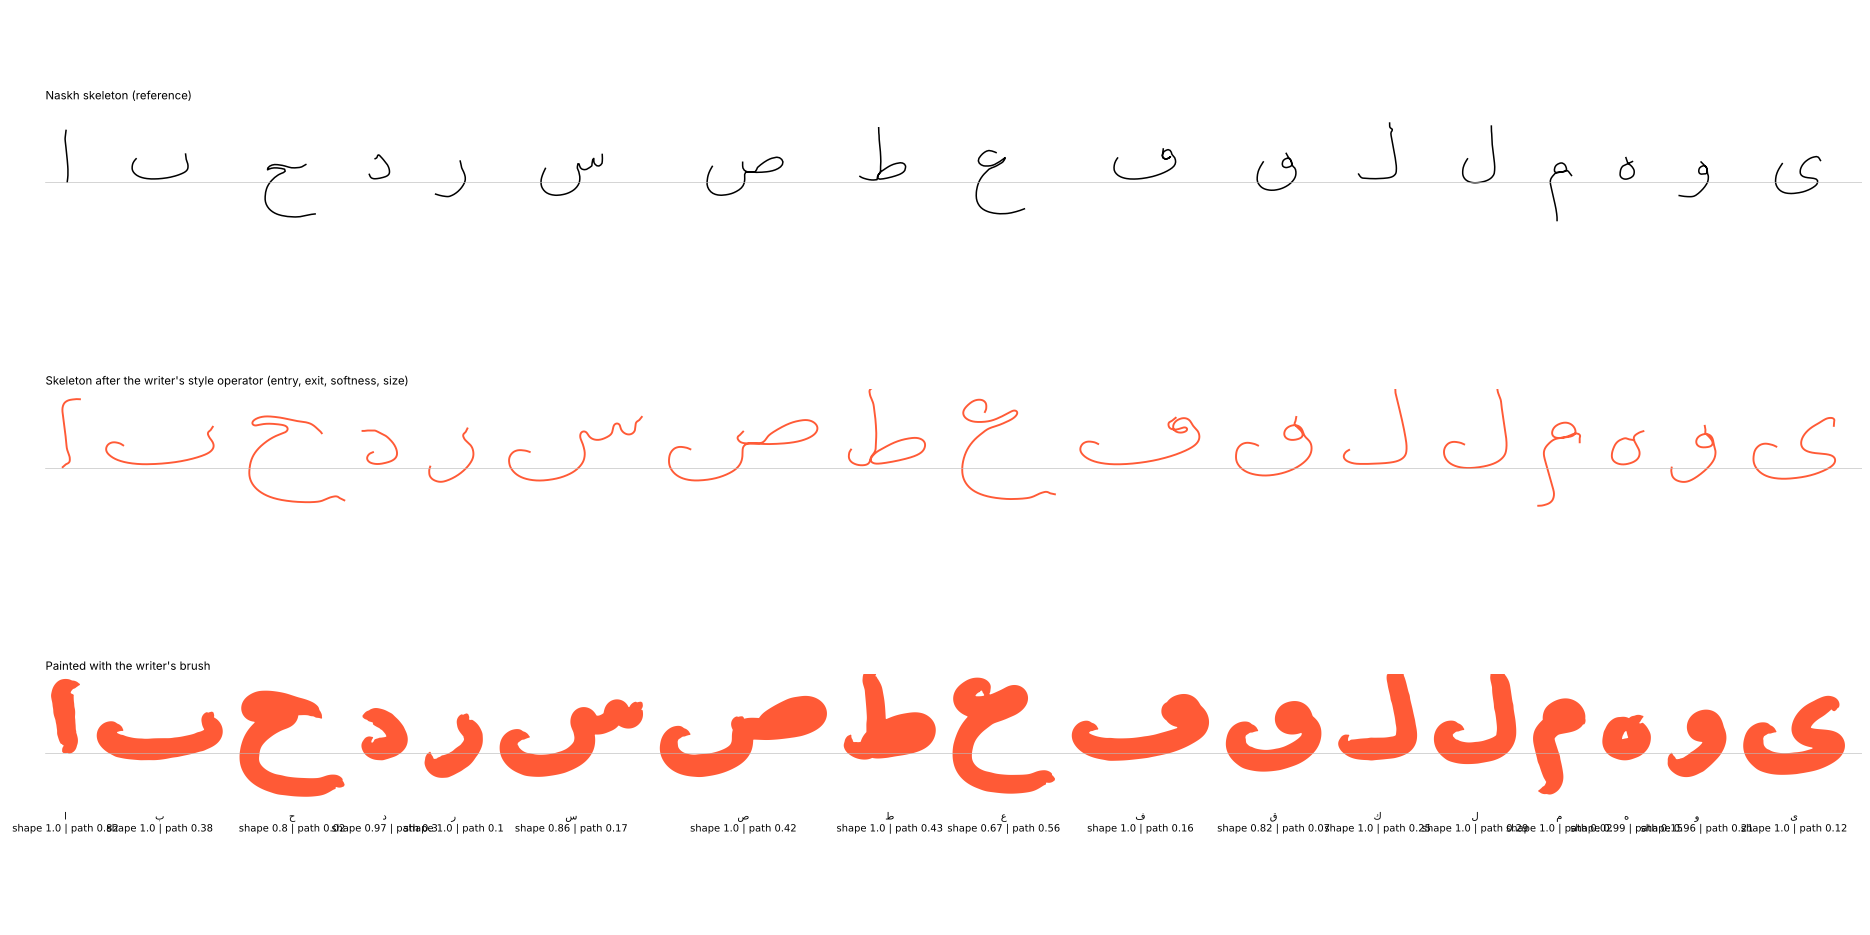
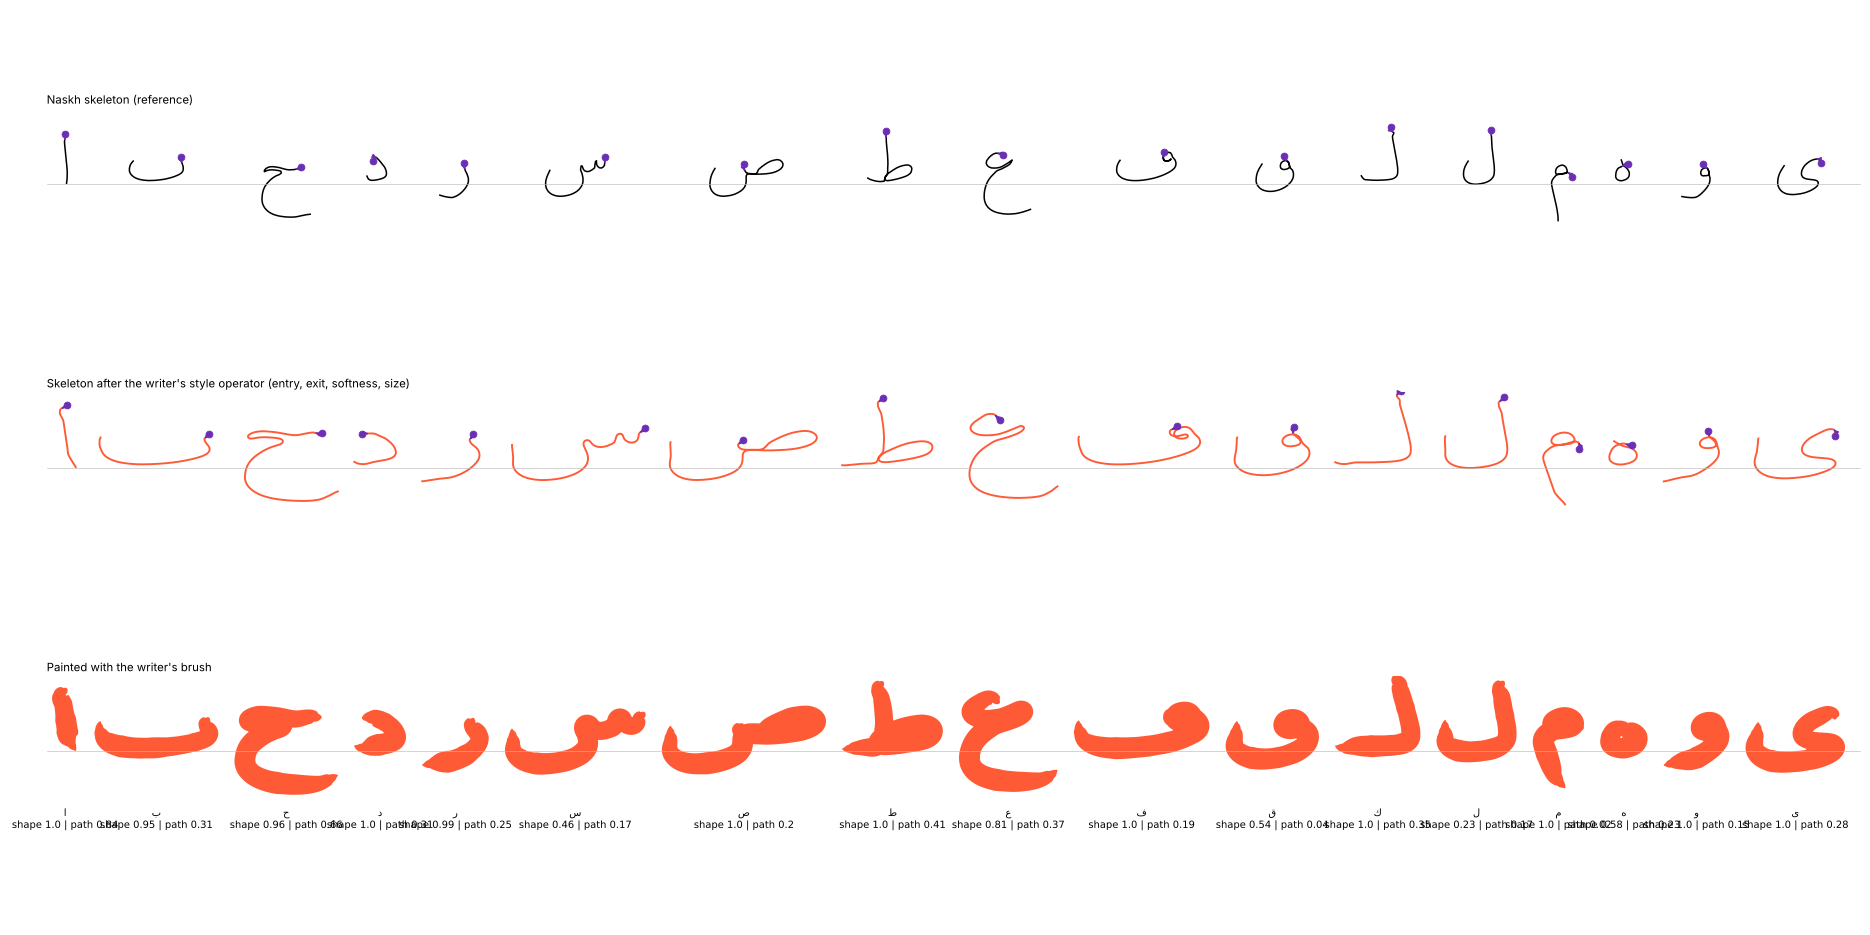
Pen paths follow writing direction (start at the higher end, else the right one)
Fixes hah, ain and yeh, which were drawn backwards from their tails; start
points and direction arrows are drawn on the sheet. Loop direction and
multi-stroke letters still need a per-letter ductus table.

Claude-Session: https://claude.ai/code/session_01BHg6HbP1QAJKUkGaMnibW5

diff --git a/font-engine/poc_skeleton_brush/curve_style.py b/font-engine/poc_skeleton_brush/curve_style.py
@@ -50,6 +50,18 @@ def integrate(p0, th, step=1.0):
     return p0 + np.vstack([[0, 0], np.cumsum(np.stack([np.cos(th), np.sin(th)], 1) * step, axis=0)])
 
 
+def ductus_orient(P):
+    """Writing direction (Sakkal's chart): the pen starts at the HIGHER end of
+    the stroke; when both ends are about level, at the right one. (Image
+    coordinates: smaller y = higher.) Fixes hah / ain / yeh, whose tails end
+    on the right and were being drawn backwards."""
+    a, b = P[0], P[-1]
+    h = max(np.ptp(P[:, 1]), 1e-6)
+    if abs(a[1] - b[1]) > 0.25 * h:
+        return P if a[1] < b[1] else P[::-1]
+    return P if a[0] >= b[0] else P[::-1]
+
+
 def wrap(a):
     return (a + np.pi) % (2 * np.pi) - np.pi
 
@@ -64,11 +76,8 @@ class CurveStyle:
         for key, form in PAIRS.items():
             if key in exclude:
                 continue
-            U = dense(R.S["strokes"][key][0])
-            N = R.ref[form] * R.k
-            Uc = nr.Restyler._r64(U) - [0, R.base]
-            Uc[:, 0] -= Uc[:, 0].mean()
-            N = dense(sd.orient_like(N, Uc))
+            U = dense(ductus_orient(R.S["strokes"][key][0]))
+            N = dense(ductus_orient(R.ref[form] * R.k))
             pairs[key] = (N, U)
         self.pairs = pairs
         # entry and exit motifs: mean extra direction of the writer over the zone
@@ -127,7 +136,7 @@ class CurveStyle:
 
     def styled(self, form):
         R = self.R
-        N = dense(R.ref[form] * R.k)
+        N = dense(ductus_orient(R.ref[form] * R.k))
         G = self.apply_path(N)
         G += [N[:, 0].mean() - G[:, 0].mean(), N[:, 1].max() - G[:, 1].max()]
         return G + [0, R.base], N + [0, R.base]
@@ -206,6 +215,11 @@ def main():
         dx = x - lo
         axs[0].plot(N[:, 0] + dx, N[:, 1], color="black", lw=2)
         axs[1].plot(part.q[:, 0] + dx, part.q[:, 1], color="#ff5a36", lw=2.5)
+        for ax_, P_ in ((axs[0], N), (axs[1], part.q)):      # where the pen starts, and its direction
+            ax_.plot(P_[0, 0] + dx, P_[0, 1], "o", color="#6a2fb5", ms=9)
+            k_ = min(len(P_) - 1, 60)
+            ax_.annotate("", xy=(P_[k_, 0] + dx, P_[k_, 1]), xytext=(P_[k_ - 12, 0] + dx, P_[k_ - 12, 1]),
+                         arrowprops=dict(arrowstyle="-|>", color="#6a2fb5", lw=2))
         for pg in ([g] if g.geom_type == "Polygon" else list(g.geoms)):
             px, py = pg.exterior.xy
             axs[2].fill(np.array(px) + dx, py, color="#ff5a36", lw=0)

diff --git a/font-engine/poc_skeleton_brush/README.md b/font-engine/poc_skeleton_brush/README.md
@@ -47,6 +47,22 @@
 - ح وم وق ضعيفة عند عين المسار.
 - الفرشاة متماثلة حول المسار.
 
+### تحديث: اتجاه الكتابة (`ductus_orient` في `curve_style.py`)
+
+المسار يبدأ الآن من حيث يبدأ القلم فعلاً، كما في لوحة سقال: من الطرف الأعلى، وإذا تساوى الطرفان في الارتفاع فمن الأيمن. قبل ذلك كان يبدأ من أقصى اليمين دائماً، فيمشي بالعكس في ح و ع و ى. نقطة البداية والسهم مرسومان على اللوحة.
+
+**أثر التعديل:**
+- **تحسّن:** ح (درجة عين المسار من 0.02 إلى 0.66)، و ى، و ك.
+- **تراجع:** س و ل و ق. وفي اختبار الحجب تراجعت الزاي من 0.19 إلى 0.29.
+- **السبب المرجّح:** قاعدة الخروج صارت تُتعلَّم من اتجاهات مختلفة، فتغيّرت من +88° إلى −25°.
+
+**ما لم يُعالج:**
+- اتجاه الدوران داخل العيون (ف ق و م ه).
+- الحروف التي تُكتب بأكثر من ضربة في النسخ، مثل قائم الطاء وأسنان السين في لوحة سقال.
+- بداية الحاء.
+
+هذه تحتاج جدول كتابة لكل حرف، لا قاعدة عامة واحدة.
+
 ## جديد الإصدار الحادي عشر: النسخ مرجعاً وحروفك أسلوباً (`naskh_restyle.py`)
 
 تطبيق مخططك. كل مسار نسخ (خط Amiri) يُقطَّع إلى أقواس عند نقاط تغيّر اتجاه القلم. من حروفك الثلاثة نبني مكتبة قواعد: «قوس كهذا في النسخ يرسمه هذا الكاتب بهذه القطعة من ضربته». الحرف الجديد تُستبدل أقواسه بقطع من ضرباتك تُضبط على وتر كل قوس، ثم توصل بنعومة.
